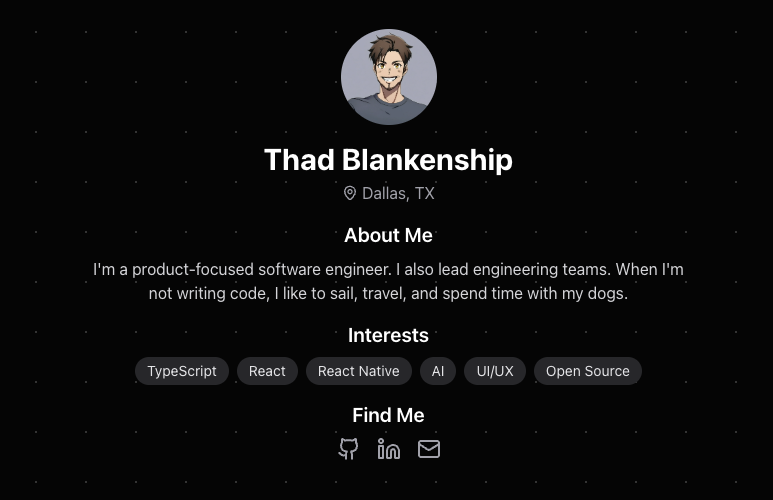
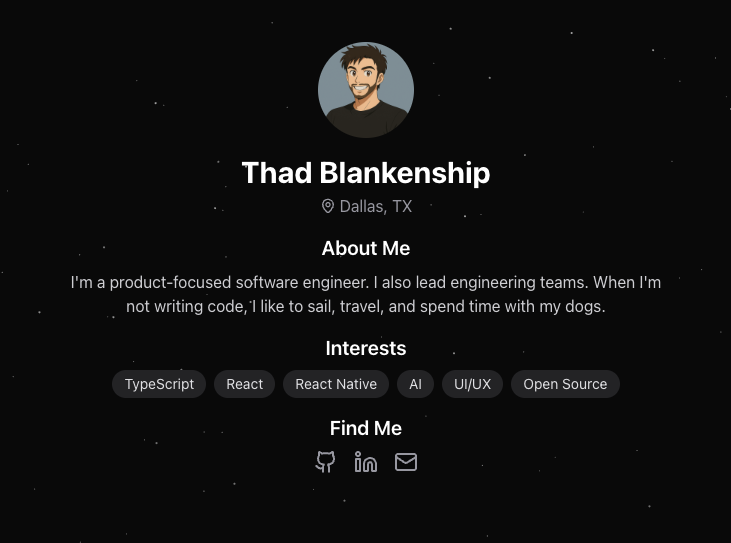
chore: update og image and click links

diff --git a/app/page.tsx b/app/page.tsx
@@ -64,21 +64,21 @@ export default function AboutPage() {
                 <div className="flex justify-center space-x-4">
                   <a
                     href="https://github.com/tblankenship"
-                    className="text-zinc-400 hover:text-white transition-colors"
+                    className="text-zinc-400 hover:text-white transition-colors cursor-pointer duration-300"
                     aria-label="GitHub"
                   >
                     <Github className="h-6 w-6" />
                   </a>
                   <a
                     href="https://linkedin.com/in/thaddeusb"
-                    className="text-zinc-400 hover:text-white transition-colors"
+                    className="text-zinc-400 hover:text-white transition-colors cursor-pointer duration-300"
                     aria-label="LinkedIn"
                   >
                     <Linkedin className="h-6 w-6" />
                   </a>
                   <a
                     href="mailto:thaddeusblankenship@gmail.com"
-                    className="text-zinc-400 hover:text-white transition-colors"
+                    className="text-zinc-400 hover:text-white transition-colors cursor-pointer duration-300"
                     aria-label="Email"
                   >
                     <Mail className="h-6 w-6" />
